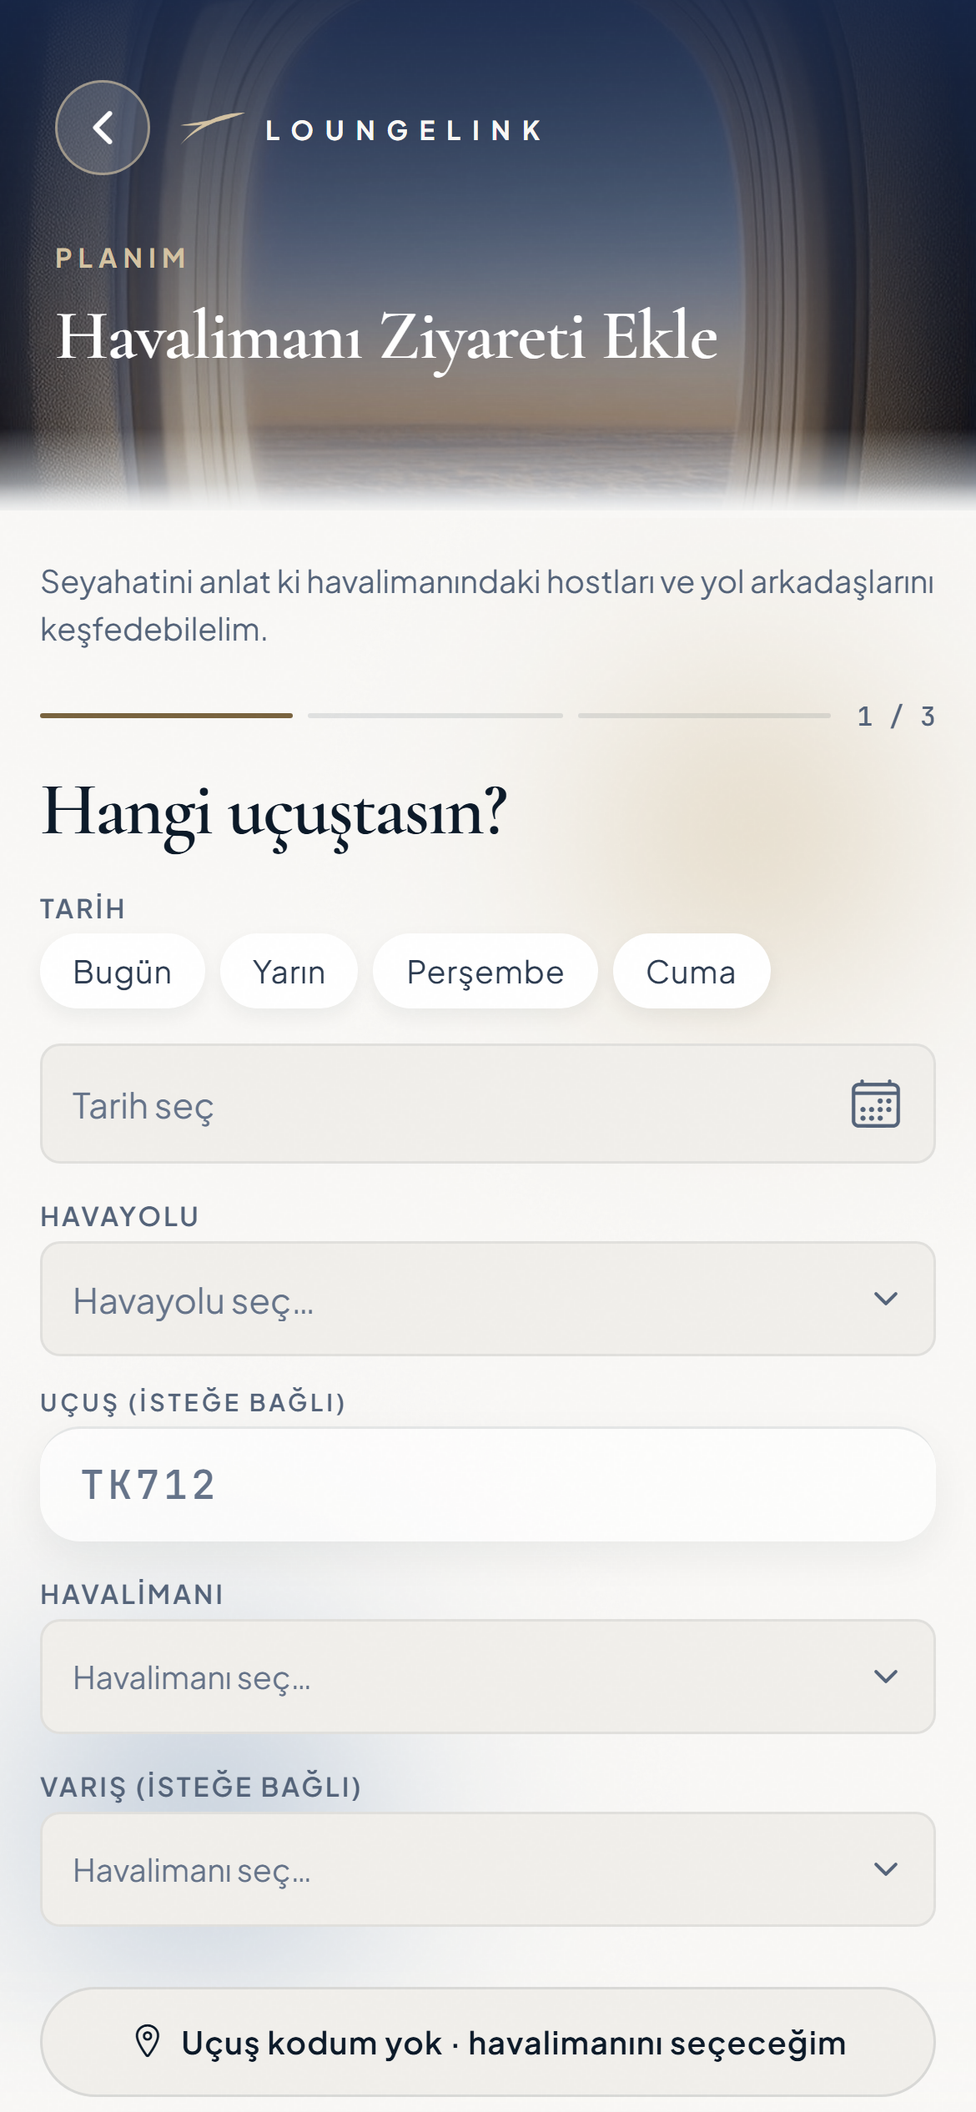
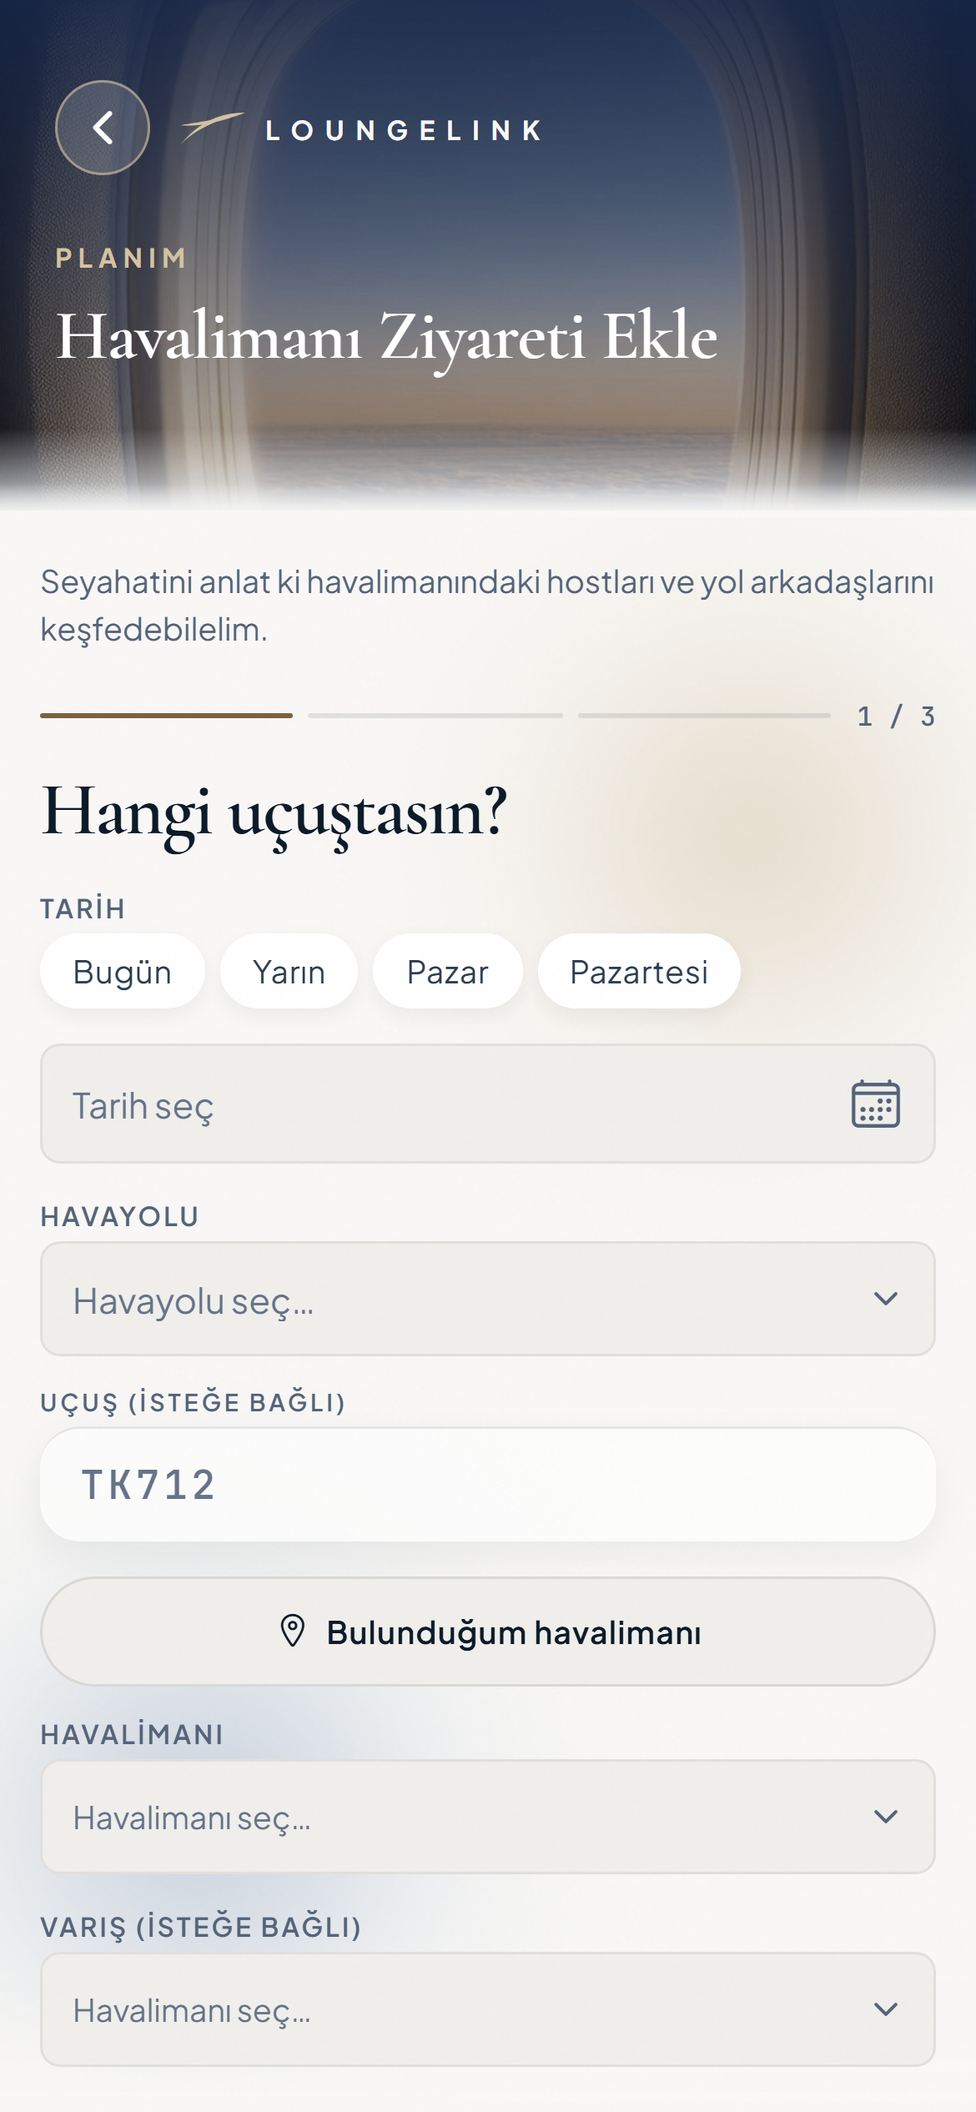
app 1.0.0: Bulundugum havalimani (expo-location, yalniz on plan, konum telefonda kalir, 222 havalimani koordinati); ucus bulununca havalimani secilmiyordu (a.key/code) duzeltildi; yasal metin 2026-10-23 konum cumlesi

diff --git a/rnapp/src/havalimani_konum.js b/rnapp/src/havalimani_konum.js
@@ -1,0 +1,5 @@
+// 23 Ekim — HAVALİMANI KOORDİNATLARI (yalnız "Bulunduğum havalimanı" için).
+// Veritabanındaki airports tablosunda koordinat yok; en yakın havalimanı TELEFONDA hesaplanır ve
+// konum hiçbir sunucuya gönderilmez (App Privacy: konum toplanmıyor). Kaynak: airportsdata (açık veri),
+// 222 kod (FRU, PNH elle), 3 ondalık (~100 m). Katalogda yeni havalimanı çıkıp burada yoksa düğme onu önermez; form elle çalışır.
+export const HAVALIMANI_KONUM = {FRU:[43.061,74.478],PNH:[11.547,104.844],ABJ:[5.261,-3.926],ABV:[9.007,7.263],ACC:[5.605,-0.167],ADA:[36.982,35.280],ADB:[38.292,27.157],ADD:[8.978,38.799],AGP:[36.675,-4.499],ALA:[43.352,77.040],ALG:[36.691,3.215],AMM:[31.723,35.993],AMS:[52.309,4.764],AQJ:[29.612,35.018],ASR:[38.770,35.495],ATH:[37.936,23.945],ATL:[33.637,-84.428],AUH:[24.433,54.651],AYT:[36.899,30.800],BAH:[26.271,50.634],BCN:[41.297,2.078],BEG:[44.818,20.309],BER:[52.362,13.501],BEY:[33.821,35.488],BGW:[33.263,44.235],BHX:[52.454,-1.748],BIO:[43.301,-2.911],BJL:[13.338,-16.652],BJV:[37.251,27.664],BKK:[13.681,100.747],BKO:[12.534,-7.950],BLL:[55.740,9.152],BLQ:[44.535,11.289],BOD:[44.828,-0.716],BOG:[4.702,-74.147],BOM:[19.089,72.868],BOS:[42.363,-71.006],BRE:[53.047,8.787],BRI:[41.139,16.761],BRU:[50.541,4.290],BSL:[47.590,7.530],BSR:[30.549,47.662],BUD:[47.437,19.256],BUS:[41.610,41.600],CAI:[30.122,31.406],CAN:[23.392,113.299],CCS:[10.603,-66.991],CDG:[49.013,2.550],CEB:[10.307,123.979],CGK:[-6.126,106.656],CGN:[50.866,7.143],CKY:[9.577,-13.612],CLJ:[46.785,23.686],CMB:[7.181,79.884],CMN:[33.367,-7.590],COO:[6.357,2.384],COV:[36.893,35.072],CPH:[55.618,12.656],CPT:[-33.965,18.602],CTA:[37.467,15.066],CUN:[21.037,-86.877],DAC:[23.843,90.398],DAR:[-6.878,39.203],DBV:[42.561,18.268],DEL:[28.567,77.103],DEN:[39.862,-104.673],DFW:[32.897,-97.038],DIY:[37.894,40.201],DLA:[4.006,9.719],DLM:[36.713,28.793],DMM:[26.471,49.798],DOH:[25.261,51.614],DPS:[-8.748,115.167],DSS:[14.671,-17.067],DTW:[42.212,-83.353],DUR:[-29.614,31.120],DUS:[51.289,6.767],DXB:[25.253,55.364],EBB:[0.042,32.444],EBL:[36.238,43.963],ECN:[35.155,33.496],EDI:[55.950,-3.373],ESB:[40.128,32.995],EWR:[40.692,-74.169],EZE:[-34.822,-58.536],FCO:[41.804,12.251],FIH:[-4.386,15.445],FNA:[8.616,-13.195],FRA:[50.026,8.543],GOT:[57.663,12.280],GRU:[-23.436,-46.473],GVA:[46.238,6.109],GYD:[40.468,50.047],GZT:[36.947,37.479],HAJ:[52.461,9.685],HAM:[53.630,9.988],HAN:[21.221,105.807],HAV:[22.989,-82.409],HBE:[30.918,29.696],HEL:[60.317,24.963],HKG:[22.309,113.915],HKT:[8.113,98.317],HND:[35.552,139.780],HRG:[27.178,33.799],HTY:[36.363,36.282],IAD:[38.947,-77.460],IAH:[29.984,-95.341],ICN:[37.469,126.451],ISB:[33.549,72.826],IST:[41.275,28.752],JFK:[40.640,-73.779],JIB:[11.547,43.160],JNB:[-26.134,28.242],JRO:[-3.429,37.075],KBL:[34.566,69.212],KGL:[-1.969,30.140],KHI:[24.907,67.161],KIX:[34.427,135.244],KRK:[50.078,19.785],KRT:[15.590,32.553],KTM:[27.697,85.359],KUL:[2.746,101.710],KWI:[29.227,47.980],KZN:[55.606,49.279],LAD:[-8.858,13.231],LAX:[33.942,-118.408],LBV:[0.459,9.412],LED:[59.800,30.262],LGW:[51.148,-0.190],LHE:[31.522,74.404],LHR:[51.471,-0.462],LIS:[38.781,-9.136],LJU:[46.224,14.458],LOS:[6.577,3.321],LUN:[-15.331,28.453],LUX:[49.372,6.122],LYS:[45.726,5.091],MAD:[40.494,-3.567],MAN:[53.354,-2.275],MCT:[23.593,58.284],MED:[24.553,39.705],MEL:[-37.673,144.843],MEX:[19.436,-99.072],MIA:[25.795,-80.290],MLA:[35.858,14.477],MLE:[4.192,73.529],MNL:[14.509,121.020],MPM:[-25.921,32.573],MRA:[32.326,15.060],MRS:[43.439,5.221],MRU:[-20.430,57.684],MUC:[48.354,11.786],MXP:[45.631,8.728],NAP:[40.886,14.291],NBO:[-1.319,36.928],NCE:[43.658,7.216],NDJ:[12.134,15.034],NIM:[13.482,2.184],NKC:[18.098,-15.948],NRT:[35.765,140.386],NSI:[3.723,11.553],NUE:[49.499,11.067],OHD:[41.180,20.742],OPO:[41.248,-8.681],ORD:[41.977,-87.908],ORN:[35.624,-0.621],OSL:[60.194,11.100],OTP:[44.572,26.102],OUA:[12.353,-1.512],PEK:[40.080,116.585],PMO:[38.176,13.091],PNR:[-4.816,11.887],PRG:[50.101,14.260],PRN:[42.573,21.036],PTY:[9.071,-79.383],PVG:[31.143,121.805],RAK:[31.607,-8.036],RIX:[56.924,23.971],RUH:[24.958,46.699],RZV:[41.169,40.829],SAW:[40.899,29.309],SCL:[-33.393,-70.786],SEA:[47.450,-122.312],SEZ:[-4.674,55.522],SFO:[37.619,-122.375],SGN:[10.819,106.652],SHJ:[25.329,55.517],SIN:[1.350,103.994],SJJ:[43.825,18.331],SKG:[40.520,22.971],SKP:[41.962,21.621],SOF:[42.697,23.411],SSH:[27.977,34.395],STR:[48.690,9.222],SZG:[47.793,13.004],TAS:[41.258,69.281],TBS:[41.669,44.955],TBZ:[38.134,46.235],TIA:[41.415,19.721],TIF:[21.483,40.544],TLL:[59.413,24.833],TLS:[43.629,1.364],TNR:[-18.797,47.479],TPE:[25.078,121.233],TRN:[45.201,7.650],TSR:[45.810,21.338],TUN:[36.851,10.227],TZX:[40.995,39.790],UBN:[47.647,106.820],VAR:[43.232,27.825],VCE:[45.505,12.352],VIE:[48.110,16.570],VKO:[55.592,37.261],VLC:[39.489,-0.482],VNO:[54.634,25.286],WAW:[52.166,20.967],YUL:[45.471,-73.741],YVR:[49.194,-123.184],YYZ:[43.677,-79.631],ZAG:[45.743,16.069],ZNZ:[-6.222,39.225],ZRH:[47.465,8.549]};

diff --git a/rnapp/src/ekranlar_ana.js b/rnapp/src/ekranlar_ana.js
@@ -32,6 +32,7 @@ import { LEGAL_DOCS, LEGAL_ORDER } from "./legal";
 import { bayrak } from "./runtime";
 import { logError, onPlanda, supabase } from "./supabase";
 import { havalimanlariniGetir, carrierlariGetir } from "./katalog";
+import { bulundugumHavalimani, konumAyarlariniAc } from "./konum";
 import { ARA, ELEV, C, F, FS, R, SATIR, SP, T, TAP, temaModu } from "./theme";
 import AsyncStorage from "@react-native-async-storage/async-storage";
 // 🔴 30 Ağu · Gece sistemi — DEĞİŞEN/KARŞILAŞTIRILAN SAYILAR MONO AİLEDE.
@@ -6416,6 +6417,43 @@ export function KisiSayisi({ t, kisi, cocuk, onKisi, onCocuk, stil }) {
 // Kural koşulu durumu → ikon (R1 katlanır özet).
 const KURAL_IKON = { ok: "tamam", yok: "kapat" };
 
+// 23 Ekim (1.0) — "Bulunduğum havalimanı". İzin YALNIZ bu düğmeye basınca sorulur; konum
+// telefondan çıkmaz (konum.js). Sonuç düğmenin altında tek satır; reddedilirse form elle çalışır.
+function BulundugumHavalimani({ t, airports, onBul }) {
+  const [busy, setBusy] = useState(false);
+  const [sonuc, setSonuc] = useState(null);
+  const bas = async () => {
+    setBusy(true); setSonuc(null);
+    const r = await bulundugumHavalimani((airports || []).map(a => a.code || a.key));
+    setBusy(false); setSonuc(r);
+    if (r.durum === "bulundu") onBul(r.kod);
+  };
+  const ad = sonuc && sonuc.kod ? ((airports || []).find(a => (a.code || a.key) === sonuc.kod) || {}) : {};
+  const metin = !sonuc ? null
+    : sonuc.durum === "bulundu" ? (t.konumBulundu || "").replace("{ap}", `${ad.city || ad.name || sonuc.kod} (${sonuc.kod})`).replace("{km}", String(sonuc.km))
+    : sonuc.durum === "uzak" ? t.konumUzak
+    : sonuc.durum === "reddedildi" ? t.konumRed
+    : sonuc.durum === "kapali" ? t.konumKapali : t.konumHata;
+  const iyi = sonuc && sonuc.durum === "bulundu";
+  return (
+    <View style={{ marginBottom: ARA[12] }}>
+      <Btn v="ghost" sm full solAd="konum" label={busy ? t.konumAliniyor : t.konumDugme} disabled={busy} onPress={bas} />
+      {!!metin && (
+        <View accessibilityLiveRegion="polite" accessible
+              style={{ flexDirection: "row", alignItems: "flex-start", marginTop: ARA[6] }}>
+          <Ikon ad={iyi ? "tamam" : "bilgi"} boy={13} renk={iyi ? C.goldText : C.mut} stil={{ marginRight: ARA[6], marginTop: 2 }} />
+          <Text style={{ flex: 1, color: iyi ? C.goldText : C.mut, fontSize: FS.xs + 0.5, lineHeight: 17 }}>
+            {metin}
+            {sonuc.durum === "reddedildi" && sonuc.tekrar === false ? (
+              <Text onPress={konumAyarlariniAc} style={{ color: C.goldText, fontWeight: "600" }}>{" " + t.konumAyarlar}</Text>
+            ) : null}
+          </Text>
+        </View>
+      )}
+    </View>
+  );
+}
+
 export function SeyahatFormu({ t, f, set, airports, carriers, kilitli, mod, adim }) {
   // v6.3 · PANO F1–F3 (Gökberk onayı) — `adim` verilirse SİHİRBAZ: 1 uçuş/havalimanı,
   // 2 zaman ve kişi, 3 amaç. Verilmezse eskisi gibi tek sayfa (geriye uyumlu).
@@ -6426,8 +6464,11 @@ export function SeyahatFormu({ t, f, set, airports, carriers, kilitli, mod, adim
     setUcusBilgi(info);
     if (!info) return;
     const kod = (x) => String(x || "").toUpperCase().trim();
-    if (info.dep_iata && airports.some(a => a.key === kod(info.dep_iata))) set("airport", kod(info.dep_iata));
-    if (info.arr_iata && airports.some(a => a.key === kod(info.arr_iata))) set("destination", kod(info.arr_iata));
+    // 🔴 23 Ekim — `a.key` arıyordu ama iki çağıran da (AddVisit, EditTrip) katalogdan `{ code }`
+    // veriyor: uçuş bulunsa da havalimanı HİÇ seçilmiyordu ("UÇUŞ BULUNDU" kartı + boş seçici).
+    const var_ = (c) => airports.some(a => (a.code || a.key) === c);
+    if (info.dep_iata && var_(kod(info.dep_iata))) set("airport", kod(info.dep_iata));
+    if (info.arr_iata && var_(kod(info.arr_iata))) set("destination", kod(info.arr_iata));
     const hy = info.operating_iata || info.airline_iata;
     if (hy && !f.carrier) set("carrier", kod(hy));
   };
@@ -6475,6 +6516,7 @@ export function SeyahatFormu({ t, f, set, airports, carriers, kilitli, mod, adim
         {/* Kodsuz yol ya da uçuş havalimanı bulamadıysa: havalimanını ARAYARAK seç. */}
         {(kodsuz || !ucusBilgi || !f.airport) && (
           <View style={{ marginTop: ARA[14] }}>
+            {mod === "ekle" && <BulundugumHavalimani t={t} airports={airports} onBul={v => set("airport", v)} />}
             <AirportPicker t={t} airports={airports} value={f.airport} onSelect={v => set("airport", v)} />
             <AirportPicker t={t} label={t.avDestLabel} airports={airports} value={f.destination} onSelect={v => set("destination", v)} />
           </View>

diff --git a/rnapp/src/konum.js b/rnapp/src/konum.js
@@ -1,0 +1,67 @@
+// ============================================================================
+// konum.js — "Bulunduğum havalimanı" (23 Ekim, 1.0)
+// ----------------------------------------------------------------------------
+// KURALLAR
+// · İzin penceresi YALNIZ kullanıcı düğmeye bastığında açılır (push.js ile aynı ilke:
+//   ömür boyu bir kez sorulabilen soruyu, değeri anlaşılmadan sormak soruyu harcamaktır).
+// · Yalnız ön plan izni; arka plan konumu app.json'da kapalı ve Android'de engelli.
+// · Konum TELEFONDAN ÇIKMAZ: en yakın havalimanı burada hesaplanır, sunucuya hiçbir
+//   koordinat gitmez, saklanmaz (App Privacy: "konum toplanmıyor" doğru kalır).
+// · Düşük doğruluk yeter (havalimanı km ölçeğinde); önce son bilinen konum denenir.
+// ============================================================================
+import * as Location from "expo-location";
+import { Linking } from "react-native";
+import { HAVALIMANI_KONUM } from "./havalimani_konum";
+import { logError } from "./supabase";
+
+// Havalimanı alanı içindeyken bile terminal–pist arası 5–8 km olabilir; 25 km şehir
+// merkezinden "havalimanındayım" demeyi engeller ama terminal otoparkını kaçırmaz.
+export const KONUM_ESIK_KM = 25;
+
+function km(a, b) {
+  const R = 6371, rad = (x) => (x * Math.PI) / 180;
+  const dLat = rad(b[0] - a[0]), dLon = rad(b[1] - a[1]);
+  const h = Math.sin(dLat / 2) ** 2 + Math.cos(rad(a[0])) * Math.cos(rad(b[0])) * Math.sin(dLon / 2) ** 2;
+  return 2 * R * Math.asin(Math.sqrt(h));
+}
+
+// Saf hesap (test edilebilir): konuma en yakın, listede OLAN havalimanı.
+export function enYakini(nokta, kodlar) {
+  let en = null;
+  for (const kod of kodlar) {
+    const k = HAVALIMANI_KONUM[kod];
+    if (!k) continue;
+    const d = km(nokta, k);
+    if (!en || d < en.km) en = { kod, km: d };
+  }
+  return en;
+}
+
+// Dönüş: { durum: "bulundu" | "uzak" | "reddedildi" | "kapali" | "hata", kod?, km?, tekrar? }
+export async function bulundugumHavalimani(kodlar) {
+  try {
+    let izin = await Location.getForegroundPermissionsAsync();
+    if (izin.status !== "granted" && izin.canAskAgain !== false) {
+      izin = await Location.requestForegroundPermissionsAsync();
+    }
+    if (izin.status !== "granted") return { durum: "reddedildi", tekrar: izin.canAskAgain !== false };
+    if (!(await Location.hasServicesEnabledAsync())) return { durum: "kapali" };
+    let p = await Location.getLastKnownPositionAsync({ maxAge: 10 * 60 * 1000, requiredAccuracy: 5000 });
+    // Kapalı alanda (terminal) ilk konum gecikebilir; 12 sn'de gelmezse "okunamadı" — düğme sonsuza dek
+    // "Konumun okunuyor…" demesin.
+    if (!p) p = await Promise.race([
+      Location.getCurrentPositionAsync({ accuracy: Location.Accuracy.Low }),
+      new Promise((_, ret) => setTimeout(() => ret(new Error("konum_zaman_asimi")), 12000)),
+    ]);
+    const en = enYakini([p.coords.latitude, p.coords.longitude], kodlar);
+    if (!en || en.km > KONUM_ESIK_KM) return { durum: "uzak" };
+    return { durum: "bulundu", kod: en.kod, km: Math.max(1, Math.round(en.km)) };
+  } catch (e) {
+    logError("konum_havalimani", e);
+    return { durum: "hata" };
+  }
+}
+
+export function konumAyarlariniAc() {
+  return Linking.openSettings && Linking.openSettings().catch(() => {});
+}

diff --git a/rnapp/src/i18n.js b/rnapp/src/i18n.js
@@ -582,6 +582,14 @@ export const D = {
     wzSummary: "Özet",
     wzFlightFound: "Uçuş bulundu",
     wzNoCode: "Uçuş kodum yok · havalimanını seçeceğim",
+    konumDugme: "Bulunduğum havalimanı",
+    konumAliniyor: "Konumun okunuyor…",
+    konumBulundu: "Konumuna göre {ap} seçildi · yaklaşık {km} km.",
+    konumUzak: "Yakınında listemizde bir havalimanı yok; aşağıdan seç.",
+    konumRed: "Konum izni verilmedi. Havalimanını aşağıdan seçebilirsin.",
+    konumAyarlar: "Ayarlar'dan aç",
+    konumKapali: "Telefonunun konum servisi kapalı. Açabilir ya da havalimanını aşağıdan seçebilirsin.",
+    konumHata: "Konumun şu an okunamadı. Havalimanını aşağıdan seç.",
     wzWithCode: "Uçuş kodum var",
     wzSaveTrip: "Seyahati kaydet",
     wzHQ1: "Hangi salondasın?",
@@ -3095,6 +3103,14 @@ export const D = {
     wzSummary: "Summary",
     wzFlightFound: "Flight found",
     wzNoCode: "No flight code · I'll pick the airport",
+    konumDugme: "Airport I'm at",
+    konumAliniyor: "Reading your location…",
+    konumBulundu: "Based on your location, {ap} is selected · about {km} km away.",
+    konumUzak: "None of our airports is near you; pick one below.",
+    konumRed: "Location permission wasn't given. You can pick the airport below.",
+    konumAyarlar: "Turn on in Settings",
+    konumKapali: "Location services are off on your phone. Turn them on or pick the airport below.",
+    konumHata: "Your location couldn't be read right now. Pick the airport below.",
     wzWithCode: "I have a flight code",
     wzSaveTrip: "Save trip",
     wzHQ1: "Which lounge are you in?",

diff --git a/rnapp/src/legal.js b/rnapp/src/legal.js
@@ -22,7 +22,7 @@
 // Tek yönlü; asla tersi. (`node check.js` yer tutucu kalmadığını denetler.)
 // ============================================================
 
-export const LEGAL_VERSION = "2026-10-21";
+export const LEGAL_VERSION = "2026-10-23";
 
 // Veri sorumlusu: gerçek kişi (bireysel geliştirici). Mağaza hesabındaki ad ile aynı.
 const COMPANY = "Gökberk İnak";
@@ -62,7 +62,9 @@ b) Profil verileri: meslek/sektör, biyografi, konuşulan diller, profil
    fotoğrafı, LinkedIn adresi, cinsiyet (yalnızca kadın güvenlik modunun
    çalışması için).
 c) Seyahat verileri: havalimanı, tarih, saat aralığı, uçuş numarası,
-   seyahat amacı.
+   seyahat amacı. Seyahat formunda "Bulunduğum havalimanı"na basarsan
+   cihazının yaklaşık konumu yalnız o an, en yakın havalimanını cihazında
+   bulmak için okunur; konumun bize gönderilmez ve saklanmaz.
 d) Host verileri: lounge erişim kaynağı beyanı (ör. Priority Pass),
    misafir hakkı sayısı, açılan ilanlar, host başvurusu.
 e) Doğrulama verileri: kimlik doğrulamayı seçersen yüklediğin kimlik

diff --git a/rnapp/web_sahne/cek.py b/rnapp/web_sahne/cek.py
@@ -232,6 +232,10 @@ SAHNELER = {
     # Seyahati HİÇ olmayan kullanıcı: ürün açılışta seyahat formunu
     # açıyor (App.js:835). Bu, hiç çekilmemiş bir İLK GÜN ekranı.
     "40_ilk_seyahat":    ("bos",   []),                      # ekran: AddVisit · ilk gün
+    # 23 Ekim — "Bulunduğum havalimanı": İstanbul Havalimanı terminali · izin yok · Ankara Kızılay (en yakın ESB ~28 km → uzak)
+    "40b_konum_bulundu": ("bos",   [("dokun", "Bulunduğum havalimanı"), ("bekle", 1500)], "konum=41.262,28.742"),  # ekran: AddVisit
+    "40c_konum_red":     ("bos",   [("dokun", "Bulunduğum havalimanı"), ("bekle", 1500)], "konum=red"),            # ekran: AddVisit
+    "40d_konum_uzak":    ("bos",   [("dokun", "Bulunduğum havalimanı"), ("bekle", 1500)], "konum=39.920,32.854"),  # ekran: AddVisit
     "41_bildirim_bos":   ("hazir", [("dokun", "Profil"), ("dokun", "Bildirimler")]),  # ekran: Notifications · boş
     # ══════════════════════════════════════════════════════════════
     # 🔴 12 EYLÜL · GECE — ÜRÜNÜN KÖTÜ GÜNÜ.
@@ -533,9 +537,15 @@ def cek(sahneler, tam=False):
                 # 20 Ekim — `gen=NNN` ek sorgusu: dar/geniş telefon genişliği (320 · 375 · 430) ölçülür.
                 _g = re.search(r"gen=(\d+)", ek or "")
                 GEN = int(_g.group(1)) if _g else 390
+                # 23 Ekim — `konum=lat,lon` ek sorgusu: tarayıcıya konum izni + sahte konum (expo-location web'de
+                # navigator.geolocation okur). `konum=red`: izin verilmez (başsız Chromium reddeder).
+                _k = re.search(r"konum=([-0-9.]+),([-0-9.]+)", ek or "")
+                _kon = dict(geolocation={"latitude": float(_k.group(1)), "longitude": float(_k.group(2))},
+                            permissions=["geolocation"]) if _k else {}
                 ctx = b.new_context(viewport={"width": GEN, "height": 844}, device_scale_factor=3,
                                     is_mobile=True, has_touch=True, locale="tr-TR",
-                                    user_agent="Mozilla/5.0 (Linux; Android 13; Pixel 7) AppleWebKit/537.36 Chrome/120 Mobile Safari/537.36")
+                                    user_agent="Mozilla/5.0 (Linux; Android 13; Pixel 7) AppleWebKit/537.36 Chrome/120 Mobile Safari/537.36",
+                                    **_kon)
                 pg = ctx.new_page()
                 kayit = {"console": [], "errors": []}
                 pg.on("console", lambda m: kayit["console"].append({"t": m.type, "s": m.text[:400]})

diff --git a/DEVIR/2026-10-20_odul-erken-erisim-indirim-690.md b/DEVIR/2026-10-20_odul-erken-erisim-indirim-690.md
@@ -147,3 +147,17 @@ Gökberk: SQL 330–338 Supabase'de koşuldu, hepsi true. Bireysel hesap kesin.
   Telefondaki 6.9.x APK'nın üstüne kurulur (Android yalnız versionCode'a bakar).
 - Rehber v20: Supabase Apple Client IDs, 6b, Firebase iOS, RevenueCat iOS → co.loungelink.app; 6b'de iki kimlik uyarısı.
 - Bundan sonra: sürüm 1.0.x / 1.x olarak devam.
+
+## 23 Ekim — app 1.0.0 içine "Bulunduğum havalimanı" (Gökberk önizlemeyi onayladı) · BO 1.101.2 · site 0.72.6
+- `expo-location ~18.0.10`. Yalnız ön plan izni; arka plan kapalı (plugin) + Android'de ACCESS_BACKGROUND_LOCATION ve
+  FOREGROUND_SERVICE_LOCATION blockedPermissions. İzin metni app.json'da (TR).
+- `rnapp/src/konum.js`: izin YALNIZ düğmeye basınca; son bilinen konum (10 dk) yoksa düşük doğrulukla anlık konum, 12 sn zaman aşımı;
+  en yakın havalimanı TELEFONDA (haversine), eşik 25 km; konum sunucuya gitmez → App Privacy / Data safety'de konum YOK.
+- `rnapp/src/havalimani_konum.js`: 222 havalimanının koordinatı (airportsdata; FRU, PNH elle). Katalogda yeni havalimanı
+  açılıp burada yoksa düğme onu önermez (form elle çalışır) — yeni havalimanı eklenince bu tabloya da satır.
+- `ekranlar_ana.js` SeyahatFormu: `BulundugumHavalimani` (yalnız mod="ekle", havalimanı seçicisinin üstünde); sonuç satırı
+  accessibilityLiveRegion. i18n konum* (TR+EN).
+- HATA DÜZELTİLDİ: `ucusGeldi` `a.key` arıyordu, katalog `{code}` veriyor → uçuş bulunsa da kalkış/varış hiç seçilmiyordu.
+- Yasal metin 2026-10-23: Seyahat verileri maddesine konum cümlesi (üç kopya) + site /en/privacy. BO ve site sürüm artışı.
+- Sahne: 40b_konum_bulundu · 40c_konum_red · 40d_konum_uzak (cek.py `konum=lat,lon` / `konum=red`). Önizleme _gorseller/onizleme_konum_1.0.png.
+- Denetim: app check temiz · BO check temiz + build · site check 19 sayfa + verify 7/7 + build.
